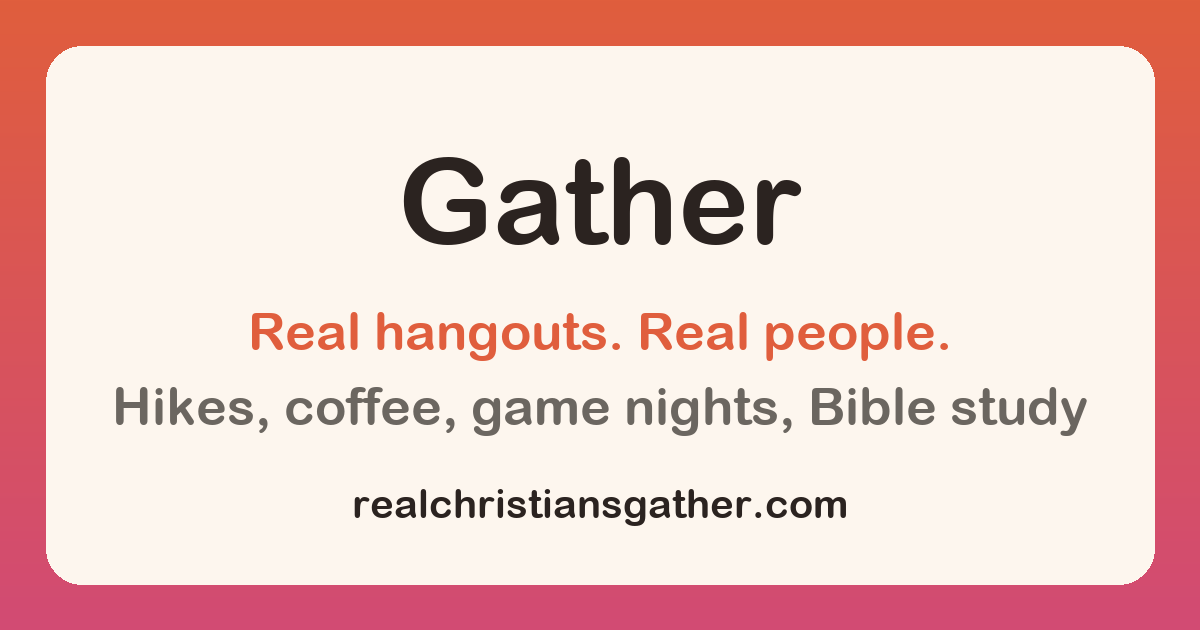
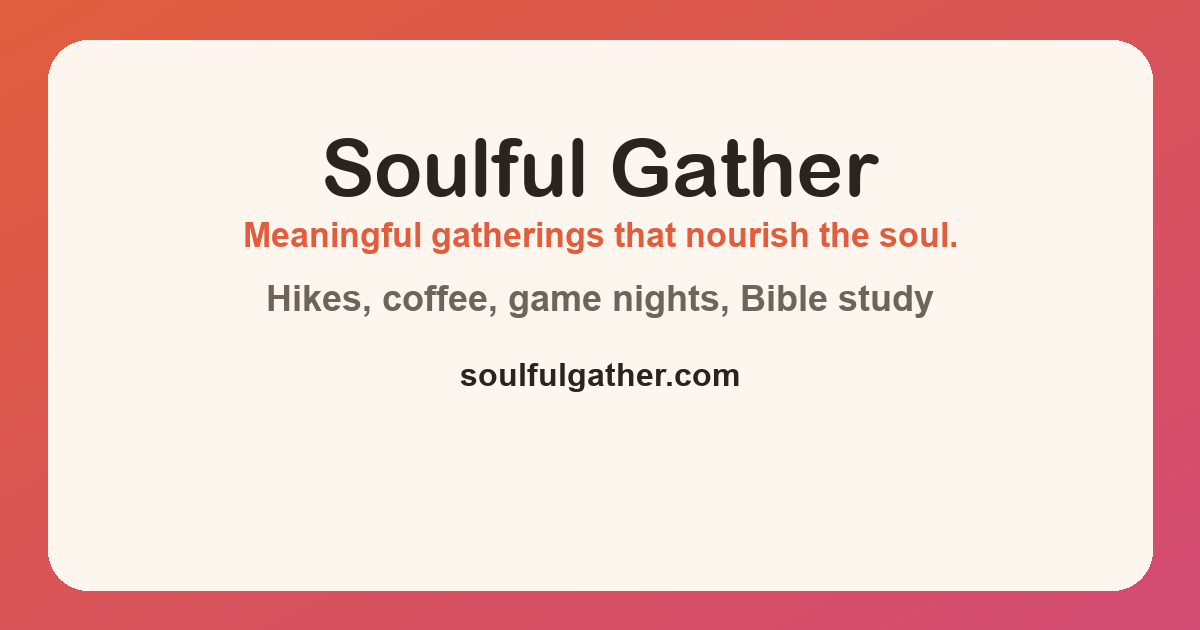
Regenerate og-image.png and qr.png for the Soulful Gather rebrand
Adds scripts/gen_assets.py (Pillow + qrcode) to generate both images from
the app's current brand strings/domain, replacing the fictitious
scratchpad/gen_assets.py reference in the README with a real, reusable
script. og-image.png now reads "Soulful Gather" with the tagline; qr.png
encodes https://soulfulgather.com/ (verified by decoding it back) in the
site's ink-on-cream brand colors, matching the original assets' domain
target and QR style.

diff --git a/scripts/gen_assets.py b/scripts/gen_assets.py
@@ -1,0 +1,112 @@
+#!/usr/bin/env python3
+"""
+Regenerates og-image.png and qr.png from the app's current branding.
+
+Run this any time the app name, tagline, or domain changes (see SITE_URL
+in app.js and the brand strings below) so the social-share card and the
+printable/scannable QR code stay in sync with the live site.
+
+Usage:
+    python3 -m venv /tmp/gen-assets-venv
+    /tmp/gen-assets-venv/bin/pip install pillow qrcode
+    /tmp/gen-assets-venv/bin/python3 scripts/gen_assets.py
+
+Requires: pillow, qrcode  (not part of the app's runtime — dev-only tools)
+"""
+import os
+
+import qrcode
+from PIL import Image, ImageDraw, ImageFont
+
+ROOT = os.path.dirname(os.path.dirname(os.path.abspath(__file__)))
+
+# ---- brand ----------------------------------------------------------------
+SITE_URL = "https://soulfulgather.com/"
+DOMAIN_LABEL = "soulfulgather.com"
+BRAND_NAME = "Soulful Gather"
+TAGLINE = "Meaningful gatherings that nourish the soul."
+DESCRIPTION = "Hikes, coffee, game nights, Bible study"
+
+# Matches style.css custom properties.
+INK = "#2b2320"
+INK_SOFT = "#6f6459"
+CREAM = "#fdf6ee"
+ORANGE = "#e05e3d"
+ROSE = "#d24b74"
+
+FONT_DIR = "/System/Library/Fonts/Supplemental"
+FONT_TITLE = os.path.join(FONT_DIR, "Arial Rounded Bold.ttf")
+FONT_BOLD = os.path.join(FONT_DIR, "Arial Bold.ttf")
+
+
+def _lerp_color(c1, c2, t):
+    return tuple(round(a + (b - a) * t) for a, b in zip(c1, c2))
+
+
+def _hex(c):
+    return tuple(int(c.lstrip("#")[i:i + 2], 16) for i in (0, 2, 4))
+
+
+def gen_og_image(path=None, width=1200, height=630):
+    """Social share card: brand gradient background, cream rounded panel,
+    title + tagline + description + domain, matching the site's
+    `--grad: linear-gradient(120deg, #e05e3d, #d24b74)` and card styling."""
+    path = path or os.path.join(ROOT, "og-image.png")
+
+    img = Image.new("RGB", (width, height), ORANGE)
+    px = img.load()
+    c1, c2 = _hex(ORANGE), _hex(ROSE)
+    # Approximate the CSS 120deg gradient as a diagonal top-left -> bottom-right blend.
+    for y in range(height):
+        for x in range(width):
+            t = (x / width * 0.5) + (y / height * 0.5)
+            px[x, y] = _lerp_color(c1, c2, min(max(t, 0), 1))
+
+    draw = ImageDraw.Draw(img)
+
+    # Cream rounded card
+    margin_x, margin_y = 48, 40
+    card_box = (margin_x, margin_y, width - margin_x, height - margin_y)
+    draw.rounded_rectangle(card_box, radius=40, fill=_hex(CREAM))
+
+    title_font = ImageFont.truetype(FONT_TITLE, 80)
+    tagline_font = ImageFont.truetype(FONT_BOLD, 34)
+    desc_font = ImageFont.truetype(FONT_BOLD, 36)
+    domain_font = ImageFont.truetype(FONT_BOLD, 32)
+
+    def centered_text(y, text, font, fill):
+        bbox = draw.textbbox((0, 0), text, font=font)
+        w = bbox[2] - bbox[0]
+        draw.text(((width - w) / 2, y), text, font=font, fill=fill)
+        return bbox[3] - bbox[1]
+
+    y = 120
+    y += centered_text(y, BRAND_NAME, title_font, _hex(INK)) + 36
+    y += centered_text(y, TAGLINE, tagline_font, _hex(ORANGE)) + 30
+    y += centered_text(y, DESCRIPTION, desc_font, _hex(INK_SOFT)) + 46
+    centered_text(y, DOMAIN_LABEL, domain_font, _hex(INK))
+
+    img.save(path)
+    print(f"Wrote {path} ({width}x{height})")
+
+
+def gen_qr(path=None, url=SITE_URL, box_size=22, border=4):
+    """Branded QR code (ink-on-cream) pointing at the live site root, matching
+    the SITE_URL constant used for share links in app.js."""
+    path = path or os.path.join(ROOT, "qr.png")
+
+    qr = qrcode.QRCode(
+        error_correction=qrcode.constants.ERROR_CORRECT_M,
+        box_size=box_size,
+        border=border,
+    )
+    qr.add_data(url)
+    qr.make(fit=True)
+    img = qr.make_image(fill_color=INK, back_color=CREAM).convert("RGB")
+    img.save(path)
+    print(f"Wrote {path} ({img.size[0]}x{img.size[1]}) encoding {url!r}")
+
+
+if __name__ == "__main__":
+    gen_og_image()
+    gen_qr()

diff --git a/README.md b/README.md
@@ -294,8 +294,14 @@ self-serve marketing page:
   `.ics` download) and a native share option in the Share menu on devices
   that support it.
 
-Regenerate `qr.png` / `og-image.png` with `scratchpad/gen_assets.py`-style
-script (qrcode + Pillow) if the domain or branding changes.
+Regenerate `qr.png` / `og-image.png` with [`scripts/gen_assets.py`](scripts/gen_assets.py)
+(qrcode + Pillow) if the domain or branding changes:
+
+```bash
+python3 -m venv /tmp/gen-assets-venv
+/tmp/gen-assets-venv/bin/pip install pillow qrcode
+/tmp/gen-assets-venv/bin/python3 scripts/gen_assets.py
+```
 
 **"Buy me a coffee" donations**: set `DONATE_URL` in `config.js` to a
 buymeacoffee.com / ko-fi.com / paypal.me link and a donate card appears on
@@ -628,3 +634,5 @@ want to configure a real SMTP provider under Authentication → Emails).
 - `schema.sql` — run this once in your Supabase project's SQL Editor
 - `manifest.json`, `sw.js`, `icon.svg` — PWA installability, matching the
   pattern used by the other apps in this folder
+- `scripts/gen_assets.py` — regenerates `og-image.png` / `qr.png` from the
+  current branding (dev-only tool, not part of the app's runtime)